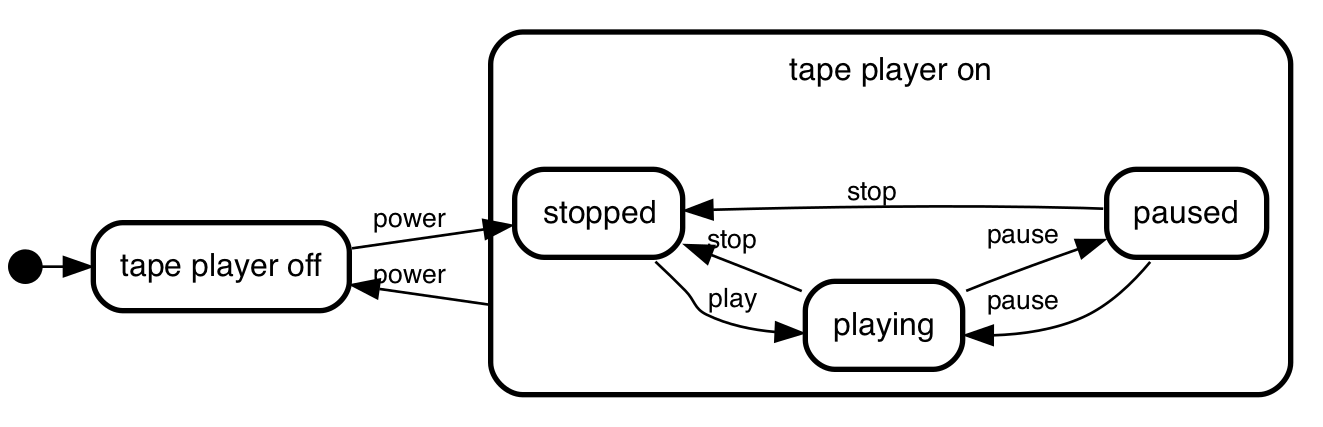
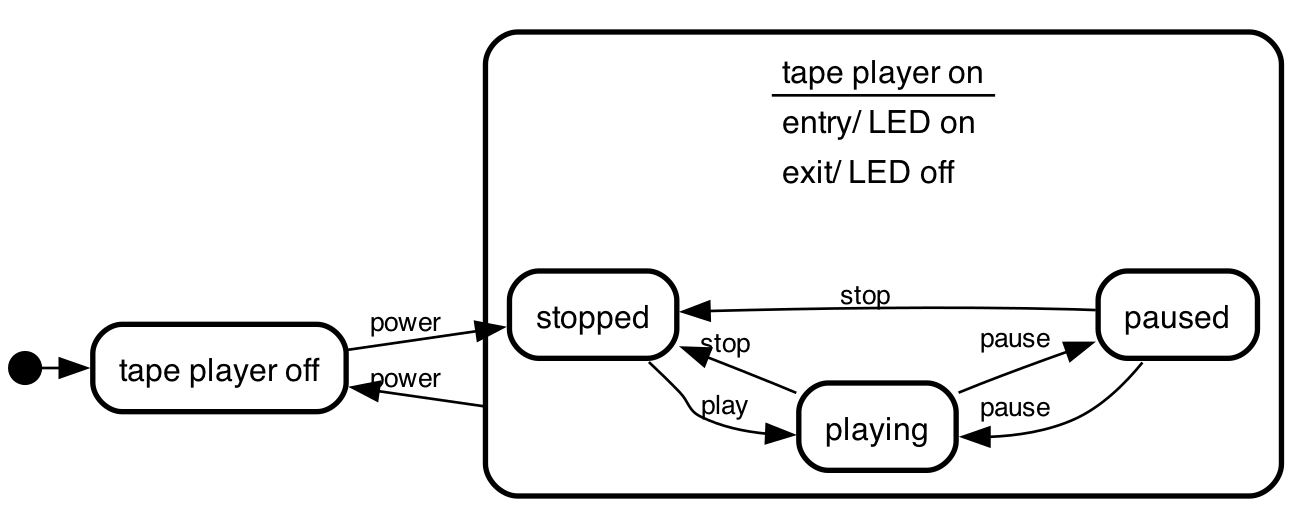
doc(README): shows how to declare entry & exit triggers on composite states

diff --git a/README.md b/README.md
@@ -403,7 +403,12 @@ the tape player is on:
 ```
 initial,
 "tape player off",
-"tape player on" {
+"tape player on":
+  entry/ LED on
+  exit/ LED off
+{
+  stopped, playing, paused;
+
   stopped => playing : play;
   playing => stopped : stop;
   playing => paused  : pause;
@@ -414,7 +419,12 @@ initial,
 initial           => "tape player off";
 "tape player off" => stopped           : power;
 "tape player on"  => "tape player off" : power;
+
 ```
+
+As you can see in this sample you can use activities (like entry and exit
+triggers) in the composite state declaration, just as you'd do for state that
+does not contain a state machine.
 
 <img width="653" alt="tape player rendition" src="https://raw.githubusercontent.com/sverweij/state-machine-cat/main/docs/pics/05tape_player.png">
 
